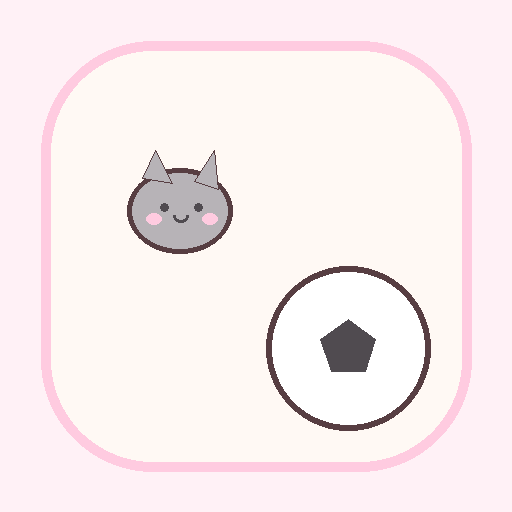
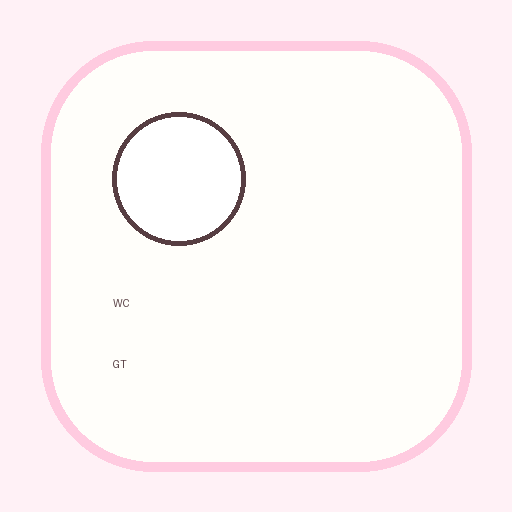
x
x

diff --git a/sw.js b/sw.js
@@ -1,1 +1,1 @@
-const CACHE='mundial-kawaii-local-v2';const ASSETS=['./','./index.html','./manifest.webmanifest','./icon.svg'];self.addEventListener('install',e=>e.waitUntil(caches.open(CACHE).then(c=>c.addAll(ASSETS))));self.addEventListener('fetch',e=>e.respondWith(caches.match(e.request).then(r=>r||fetch(e.request))));
+const CACHE='mundial-kawaii-v3';const ASSETS=['./','./index.html','./manifest.webmanifest','./icon-192.png','./icon-512.png'];self.addEventListener('install',e=>e.waitUntil(caches.open(CACHE).then(c=>c.addAll(ASSETS))));self.addEventListener('fetch',e=>e.respondWith(caches.match(e.request).then(r=>r||fetch(e.request))));

diff --git a/README.md b/README.md
@@ -1,5 +1,1 @@
-# Mundial 2026 Kawaii GT
-
-Versión con guardado local, exportar/importar respaldo JSON y marcadores actuales precargados al 16/06/2026.
-
-El navegador no puede editar su propio index.html por seguridad. Para respaldo permanente usa Exportar respaldo.
+Mundial 2026 Kawaii GT actualizado. Subir esta carpeta a hosting HTTPS. Abrir index.html desde la URL. Incluye marcadores de fase de grupos, localStorage, exportar/importar JSON e impresión/PDF.